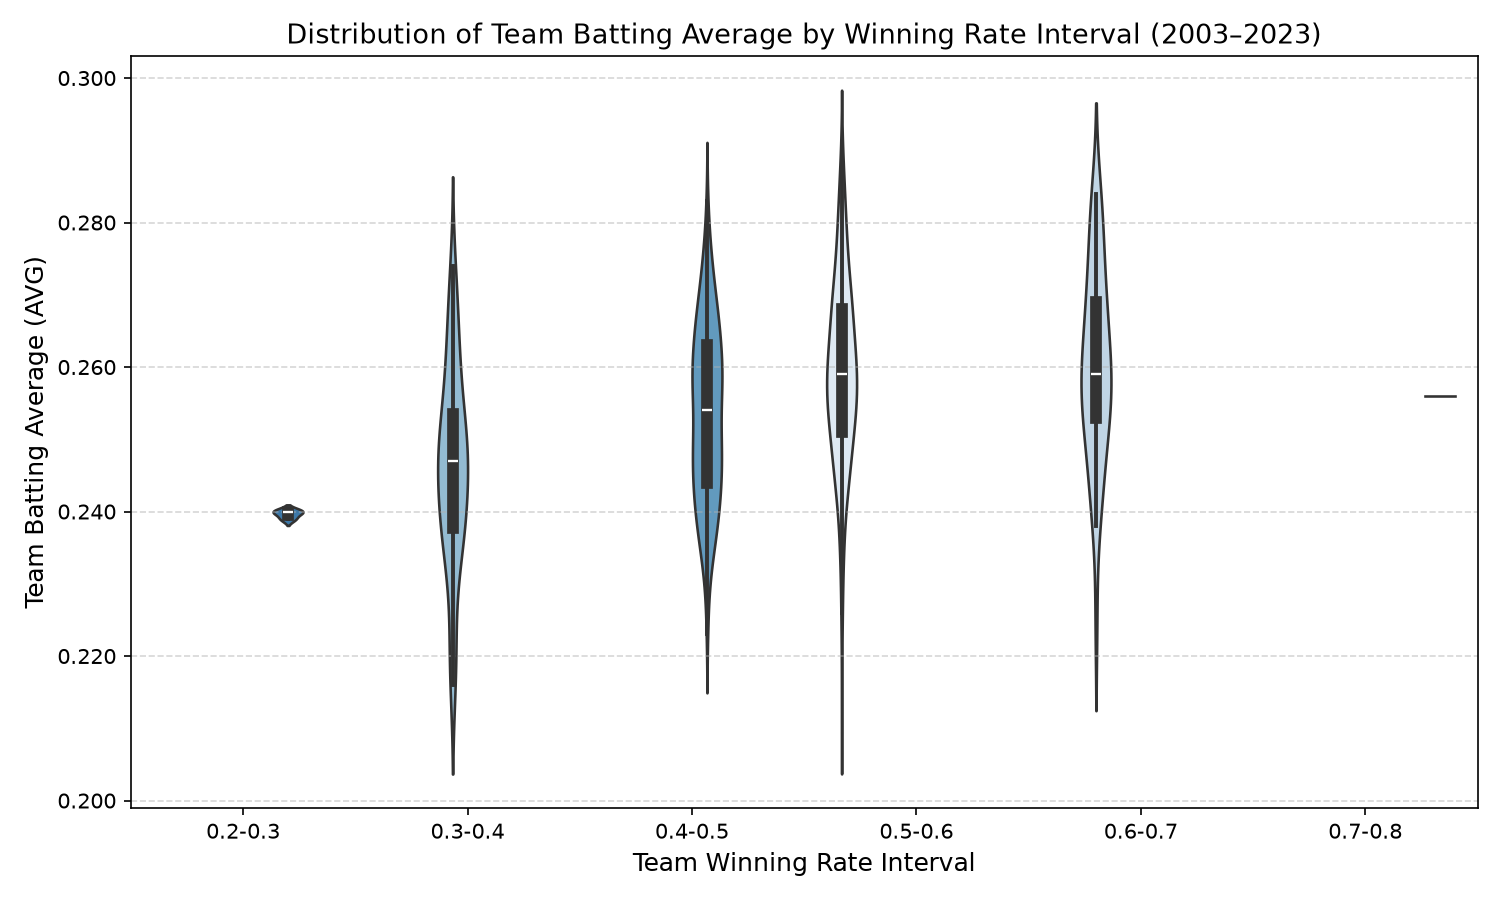
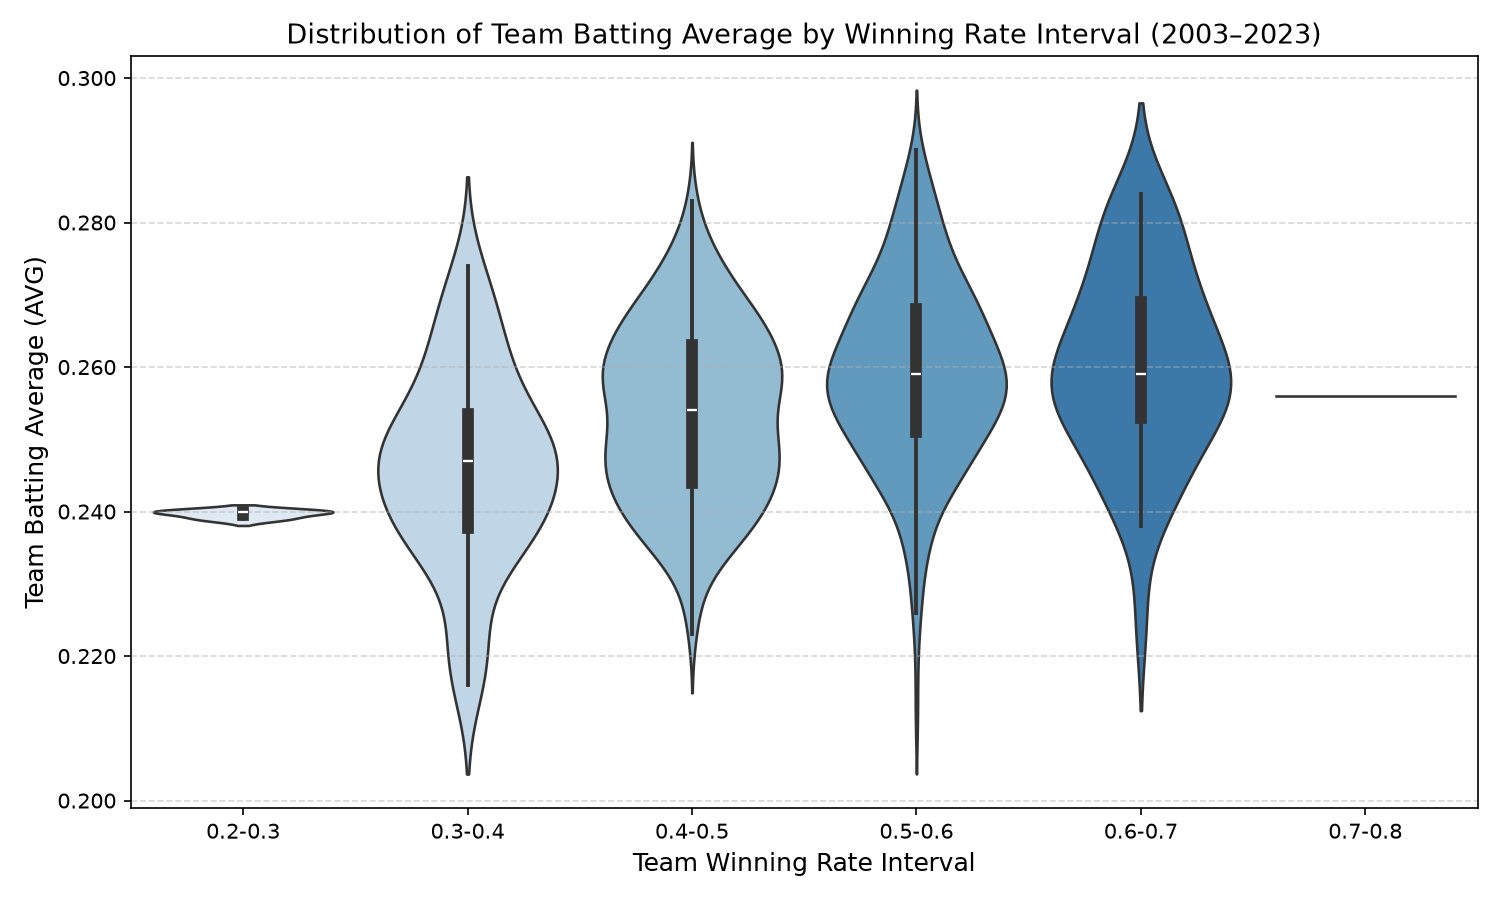
fix q1 violin plot rendering for seaborn 0.13 categorical bug

diff --git a/1121420_HW3/main.py b/1121420_HW3/main.py
@@ -45,7 +45,8 @@ def plot_q1_line(df):
 # ─── Q1: Violin Plot ──────────────────────────────────────────────────────────
 
 def plot_q1_violin(df):
-    data = df.dropna(subset=['win_rate_bin', 'AVG'])
+    data = df.dropna(subset=['win_rate_bin', 'AVG']).copy()
+    data['win_rate_bin'] = data['win_rate_bin'].astype(str)
 
     fig, ax = plt.subplots(figsize=(10, 6))
     sns.violinplot(
